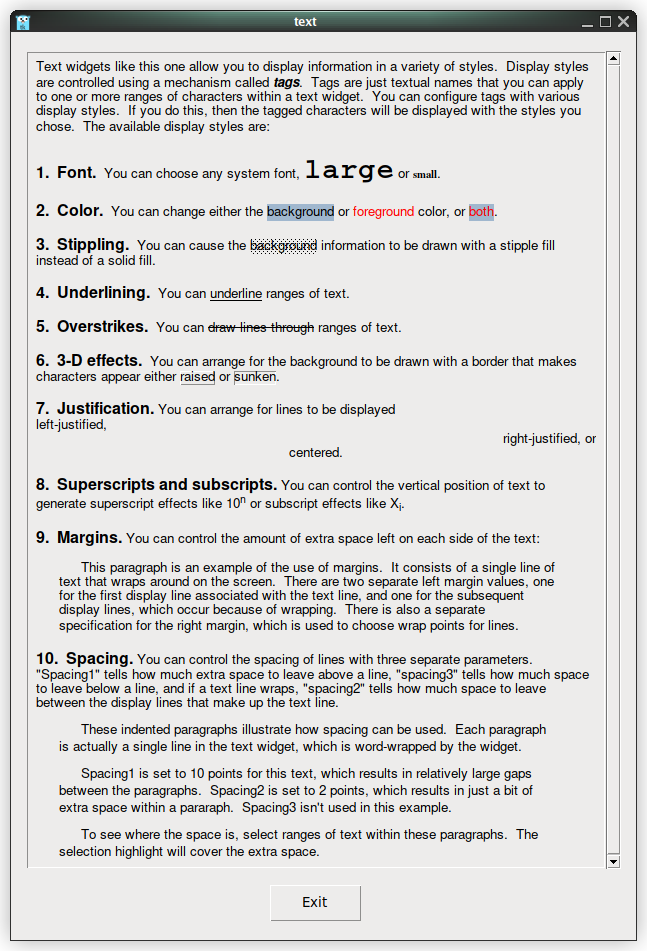
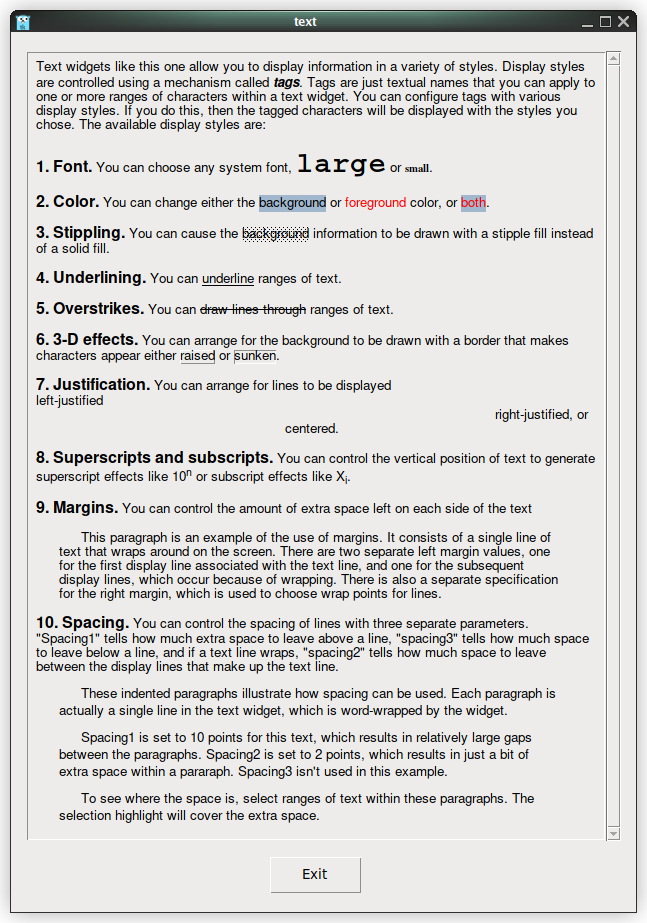
update documentation

Changed region(s): [[0.0309, 0.0, 0.9583, 0.9101], [0.4637, 0.9404, 0.5255, 0.9707], [0.9274, 0.8797, 0.9583, 0.9101]]

diff --git a/README.md b/README.md
@@ -67,90 +67,69 @@ Cascading menus (_examples/menu.go)
 
 Rich text using markup (_examples/text.go).
 
-     1	// Adapted from tk library demos style.tcl
-     2	//
-     3	// See LICENSE-TCLTK for copyright info.
+     1	package main
+     2	
+     3	import . "modernc.org/tk9.0"
      4	
-     5	package main
-     6	
-     7	import "strings"
-     8	import . "modernc.org/tk9.0"
-     9	
-    10	func main() {
-    11		family := "Helvetica"
-    12		var scroll *TScrollbarWidget
-    13		t := Text(Fnt(family+" 10"), Setgrid(true), Wrap("word"), Padx("2m"), Pady("2m"), Yscrollcommand(func(e *Event) { e.ScrollSet(scroll) }))
-    14		scroll = TScrollbar(Command(func(e *Event) { e.Yview(t) }))
-    15		Grid(t, Sticky("news"), Pady("2m"))
-    16		Grid(scroll, Row(0), Column(1), Sticky("nes"), Pady("2m"))
-    17		GridRowConfigure(App, 0, Weight(1))
-    18		GridColumnConfigure(App, 0, Weight(1))
-    19		Grid(TExit(), Padx("1m"), Pady("2m"), Ipadx("1m"), Ipady("1m"))
-    20		t.TagConfigure("bgstipple", Background(Black), Borderwidth(0), Bgstipple(Gray12))
-    21		t.TagConfigure("big", Fnt(family+" 12 bold"))
-    22		t.TagConfigure("bold", Fnt(family+" 10 bold italic"))
-    23		t.TagConfigure("center", Justify("center"))
-    24		t.TagConfigure("color1", Background("#a0b7ce"))
-    25		t.TagConfigure("color2", Foreground(Red))
-    26		t.TagConfigure("margins", Lmargin1("12m"), Lmargin2("6m"), Rmargin("10m"))
-    27		t.TagConfigure("overstrike", Overstrike(1))
-    28		t.TagConfigure("raised", Relief("raised"), Borderwidth(1))
-    29		t.TagConfigure("right", Justify("right"))
-    30		t.TagConfigure("spacing", Spacing1("10p"), Spacing2("2p"), Lmargin1("12m"), Lmargin2("6m"), Rmargin("10m"))
-    31		t.TagConfigure("sub", Offset("-2p"), Fnt(family+" 8"))
-    32		t.TagConfigure("sunken", Relief("sunken"), Borderwidth(1))
-    33		t.TagConfigure("super", Offset("4p"), Fnt(family+" 8"))
-    34		t.TagConfigure("tiny", Fnt("Times 8 bold"))
-    35		t.TagConfigure("underline", Underline(1))
-    36		t.TagConfigure("verybig", Fnt("Courier 22 bold"))
-    37		t.InsertML(`Text widgets like this one allow you to display information in a variety of styles. Display styles are controlled using a mechanism called
-    38	<bold>tags</bold>. Tags are just textual names that you can apply to one or more ranges of characters within a text widget. You can configure tags
-    39	with various display styles. If you do this, then the tagged characters will be displayed with the styles you chose. The available display styles are:
-    40	
-    41	<br><br><big>1. Font.</big> You can choose any system font, <verybig>large</verybig> or <tiny>small</tiny>.
-    42	
-    43	<br><br><big>2. Color.</big> You can change either the <color1>background</color1> or <color2>foreground</color2> color, or
-    44	<color1><color2>both</color2></color1>.
-    45	
-    46	<br><br><big>3. Stippling.</big> You can cause the <bgstipple>background</bgstipple> information to be drawn with a stipple fill instead of a solid
-    47	fill.
-    48	
-    49	<br><br><big>4. Underlining.</big> You can <underline>underline</underline> ranges of text.
-    50	
-    51	<br><br><big>5. Overstrikes.</big> You can <overstrike>draw lines through</overstrike> ranges of text.
-    52	
-    53	<br><br><big>6. 3-D effects.</big> You can arrange for the background to be drawn with a border that makes characters appear either
-    54	<raised>raised</raised> or <sunken>sunken</sunken>.
-    55	
-    56	<br><br><big>7. Justification.</big> You can arrange for lines to be displayed <br>left-justified <br><right>right-justified, or</right>
-    57	<br><center>centered.</center>
-    58	
-    59	<br><br><big>8. Superscripts and subscripts.</big> You can control the vertical position of text to generate superscript effects like
-    60	10<super>n</super> or subscript effects like X<sub>i</sub>.
-    61	
-    62	<br><br><big>9. Margins.</big> You can control the amount of extra space left on each side of the text
-    63	
-    64	<br><br><margins>This paragraph is an example of the use of margins. It consists of a single line of text that wraps around on the screen. There are
-    65	two separate left margin values, one for the first display line associated with the text line, and one for the subsequent display lines, which occur
-    66	because of wrapping. There is also a separate specification for the right margin, which is used to choose wrap points for lines.</margins>
-    67	
-    68	<br><br><big>10. Spacing.</big> You can control the spacing of lines with three separate parameters. "Spacing1" tells how much extra space to leave
-    69	above a line, "spacing3" tells how much space to leave below a line, and if a text line wraps, "spacing2" tells how much space to leave between the
-    70	display lines that make up the text line.
-    71	
-    72	<br><spacing>These indented paragraphs illustrate how spacing can be used. Each paragraph is actually a single line in the text widget, which is
-    73	word-wrapped by the widget.</spacing>
-    74	
-    75	<br><spacing>Spacing1 is set to 10 points for this text, which results in relatively large gaps between the paragraphs. Spacing2 is set to 2 points,
-    76	which results in just a bit of extra space within a pararaph. Spacing3 isn't used in this example.</spacing>
-    77	
-    78	<br><spacing>To see where the space is, select ranges of text within these paragraphs. The selection highlight will cover the extra space.</spacing>`)
-    79		App.Configure(Padx("4m"), Pady("3m")).Center().Wait()
-    80	}
-    81	
-    82	func s(s string) string {
-    83		return strings.ReplaceAll(s, "\n", " ")
-    84	}
+     5	func main() {
+     6		var scroll *TScrollbarWidget
+     7		t := Text(Fnt("helvetica 10"), Yscrollcommand(func(e *Event) { e.ScrollSet(scroll) }), Setgrid(true), Wrap("word"), Padx("2m"), Pady("2m"))
+     8		scroll = TScrollbar(Command(func(e *Event) { e.Yview(t) }))
+     9		Grid(t, Sticky("news"), Pady("2m"))
+    10		Grid(scroll, Row(0), Column(1), Sticky("nes"), Pady("2m"))
+    11		GridRowConfigure(App, 0, Weight(1))
+    12		GridColumnConfigure(App, 0, Weight(1))
+    13		Grid(TExit(), Padx("1m"), Pady("2m"), Ipadx("1m"), Ipady("1m"))
+    14		t.TagConfigure("bgstipple", Background(Black), Borderwidth(0), Bgstipple(Gray12))
+    15		t.TagConfigure("big", Fnt("helvetica 12 bold"))
+    16		t.TagConfigure("bold", Fnt("helvetica 10 bold italic"))
+    17		t.TagConfigure("center", Justify("center"))
+    18		t.TagConfigure("color1", Background("#a0b7ce"))
+    19		t.TagConfigure("color2", Foreground(Red))
+    20		t.TagConfigure("margins", Lmargin1("12m"), Lmargin2("6m"), Rmargin("10m"))
+    21		t.TagConfigure("overstrike", Overstrike(1))
+    22		t.TagConfigure("raised", Relief("raised"), Borderwidth(1))
+    23		t.TagConfigure("right", Justify("right"))
+    24		t.TagConfigure("spacing", Spacing1("10p"), Spacing2("2p"), Lmargin1("12m"), Lmargin2("6m"), Rmargin("10m"))
+    25		t.TagConfigure("sub", Offset("-2p"), Fnt("helvetica 8"))
+    26		t.TagConfigure("sunken", Relief("sunken"), Borderwidth(1))
+    27		t.TagConfigure("super", Offset("4p"), Fnt("helvetica 8"))
+    28		t.TagConfigure("tiny", Fnt("times 8 bold"))
+    29		t.TagConfigure("underline", Underline(1))
+    30		t.TagConfigure("verybig", Fnt("courier 22 bold"))
+    31		t.InsertML(`Text widgets like this one allow you to display information in a variety of styles. Display styles are controlled
+    32	using a mechanism called <bold>tags</bold>. Tags are just textual names that you can apply to one or more ranges of characters within a
+    33	text widget. You can configure tags with various display styles. If you do this, then the tagged characters will be displayed with the
+    34	styles you chose. The available display styles are:
+    35	<br><br><big>1. Font.</big> You can choose any system font, <verybig>large</verybig> or <tiny>small</tiny>.
+    36	<br><br><big>2. Color.</big> You can change either the <color1>background</color1> or <color2>foreground</color2> color, or
+    37	<color1><color2>both</color2></color1>.
+    38	<br><br><big>3. Stippling.</big> You can cause the <bgstipple>background</bgstipple> information to be drawn with a stipple fill instead
+    39	of a solid fill.
+    40	<br><br><big>4. Underlining.</big> You can <underline>underline</underline> ranges of text.
+    41	<br><br><big>5. Overstrikes.</big> You can <overstrike>draw lines through</overstrike> ranges of text.
+    42	<br><br><big>6. 3-D effects.</big> You can arrange for the background to be drawn with a border that makes characters appear either
+    43	<raised>raised</raised> or <sunken>sunken</sunken>.
+    44	<br><br><big>7. Justification.</big> You can arrange for lines to be displayed <br>left-justified <br><right>right-justified, or</right>
+    45	<br><center>centered.</center>
+    46	<br><br><big>8. Superscripts and subscripts.</big> You can control the vertical position of text to generate superscript effects like
+    47	10<super>n</super> or subscript effects like X<sub>i</sub>.
+    48	<br><br><big>9. Margins.</big> You can control the amount of extra space left on each side of the text
+    49	<br><br><margins>This paragraph is an example of the use of margins. It consists of a single line of text that wraps around on the
+    50	screen.  There are two separate left margin values, one for the first display line associated with the text line, and one for the
+    51	subsequent display lines, which occur because of wrapping. There is also a separate specification for the right margin, which is used to
+    52	choose wrap points for lines.</margins>
+    53	<br><br><big>10. Spacing.</big> You can control the spacing of lines with three separate parameters. "Spacing1" tells how much extra
+    54	space to leave above a line, "spacing3" tells how much space to leave below a line, and if a text line wraps, "spacing2" tells how much
+    55	space to leave between the display lines that make up the text line.
+    56	<br><spacing>These indented paragraphs illustrate how spacing can be used. Each paragraph is actually a single line in the text widget,
+    57	which is word-wrapped by the widget.</spacing>
+    58	<br><spacing>Spacing1 is set to 10 points for this text, which results in relatively large gaps between the paragraphs. Spacing2 is set
+    59	to 2 points, which results in just a bit of extra space within a pararaph. Spacing3 isn't used in this example.</spacing>
+    60	<br><spacing>To see where the space is, select ranges of text within these paragraphs. The selection highlight will cover the extra
+    61	space.</spacing>`)
+    62		App.Configure(Padx("4m"), Pady("3m")).Center().Wait()
+    63	}
 
 ![svg](_examples/svg.png "svg")
 
@@ -220,20 +199,35 @@ A simple calculator (_examples/calc.go).
 
 ![font](_examples/font.png "font")
 
-A font previewer (_examples/font.go).
-
      1	package main
      2	
-     3	import . "modernc.org/tk9.0"
-     4	
-     5	func main() {
-     6		t := Text(Wrap("none"))
-     7		for i, v := range FontFamilies() {
-     8			t.TagConfigure(t.TagAdd(t.Insert(LC{i + 1, 0}, v+"\n"), LC{i + 2, 0}), Fnt(NewFont(Family(v))))
-     9		}
-    10		Pack(t, TExit(), Padx("1m"), Pady("2m"), Ipadx("1m"), Ipady("1m"))
-    11		App.Configure(Padx("4m"), Pady("3m")).Center().Wait()
-    12	}
+     3	import "fmt"
+     4	import "slices"
+     5	import . "modernc.org/tk9.0"
+     6	
+     7	func main() {
+     8		var scroll *TScrollbarWidget
+     9		t := Text(Wrap("none"), Setgrid(true), Yscrollcommand(func(e *Event) { e.ScrollSet(scroll) }))
+    10		scroll = TScrollbar(Command(func(e *Event) { e.Yview(t) }))
+    11		fonts := FontFamilies()
+    12		slices.Sort(fonts)
+    13		Grid(t, Sticky("news"), Pady("2m"), Ipadx("1m"), Ipady("1m"))
+    14		Grid(scroll, Row(0), Column(1), Sticky("nes"), Pady("2m"))
+    15		GridRowConfigure(App, 0, Weight(1))
+    16		GridColumnConfigure(App, 0, Weight(1))
+    17		Grid(TExit(), Padx("1m"), Pady("2m"), Ipadx("1m"), Ipady("1m"))
+    18		m := map[string]bool{}
+    19		for i, font := range fonts {
+    20			if m[font] {
+    21				continue
+    22			}
+    23			m[font] = true
+    24			tag := fmt.Sprintf("t%v", i)
+    25			t.TagConfigure(tag, Fnt(NewFont(Family(font))))
+    26			t.InsertML(fmt.Sprintf("%s: <%s>Lorem ipsum dolor sit amet, consectetur adipiscing elit...<%[2]s><br>", font, tag))
+    27		}
+    28		App.Configure(Padx("4m"), Pady("3m")).Center().Wait()
+    29	}
 
 ![splot](_examples/splot.png "surface plot")
 
